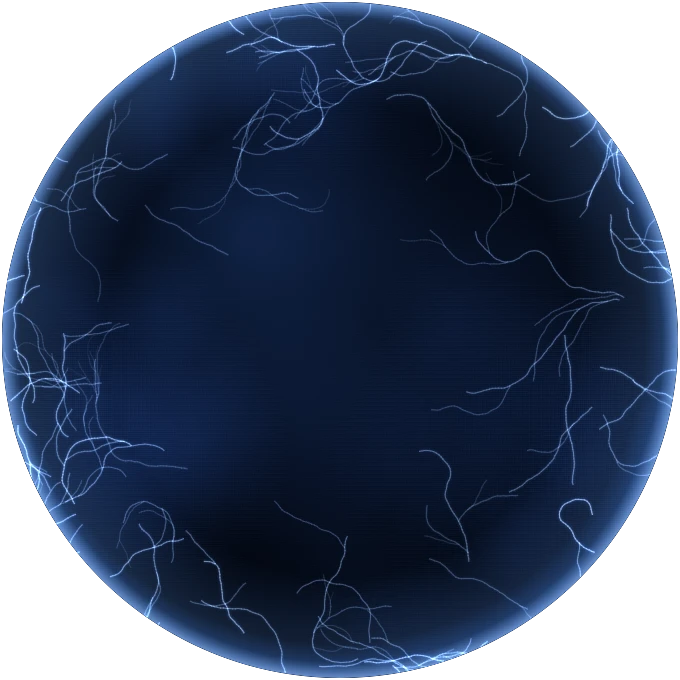
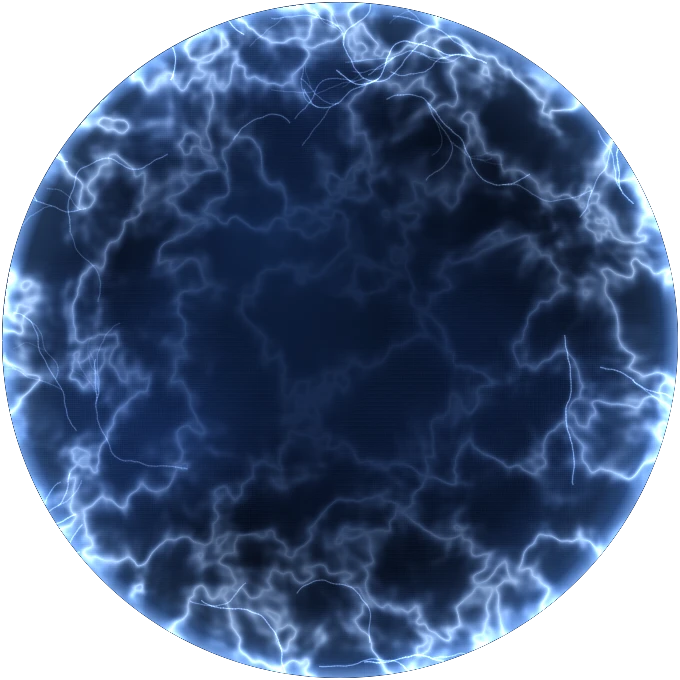
Smoke as ink in water, and an electric core
The smoke is now a density field (warped noise shaped into the arms, torn
into wisps at the edges, bluer near the orb) with fine strands on top,
instead of strands alone. The core is dark with electric veins toward
the rim, from the reference.

diff --git a/scripts/scene-art/generate.js b/scripts/scene-art/generate.js
@@ -234,19 +234,19 @@
       f.stroke();
     }
 
-    // Compose: a blurred copy underneath gives the smoke body and depth, the
-    // sharp copy on top gives it fibre.
+    // Compose: the smoke itself is a density field (soft masses that tear
+    // into wisps, like the reference); the traced fibres are only a faint
+    // layer of strands on top of it.
     const out = document.createElement('canvas');
     out.width = W; out.height = H;
     const o = out.getContext('2d');
-    o.filter = 'blur(26px)';
-    o.globalAlpha = 0.95;
+    o.imageSmoothingQuality = 'high';
+    o.drawImage(smokeField(W, H, cx, cy, noise), 0, 0, W, H);
+    o.filter = 'blur(10px)';
+    o.globalAlpha = 0.35;
     o.drawImage(fibres, 0, 0);
-    o.filter = 'blur(9px)';
-    o.globalAlpha = 0.55;
-    o.drawImage(fibres, 0, 0);
-    o.filter = 'blur(2.5px)';
-    o.globalAlpha = 0.5;
+    o.filter = 'blur(1.5px)';
+    o.globalAlpha = 0.32;
     o.drawImage(fibres, 0, 0);
     o.filter = 'none';
     o.globalAlpha = 1;
@@ -265,6 +265,62 @@
       o.fill();
     }
     return out;
+  }
+
+  /**
+   * Ink in water, pixel by pixel, at half resolution (it is soft anyway).
+   *
+   * Domain-warped noise gives the turbulent masses; its ridges give the thin
+   * torn wisps at their edges. Both are shaped into the arms by an angular
+   * mask that widens and bends with distance, and turn bluer near the orb.
+   */
+  function smokeField(W, H, cx, cy, noise) {
+    const S = 0.5;
+    const w = Math.round(W * S), h = Math.round(H * S);
+    const c = document.createElement('canvas');
+    c.width = w; c.height = h;
+    const ctx = c.getContext('2d');
+    const img = ctx.createImageData(w, h);
+    const px = img.data;
+    const warp = makeNoise(41);
+    const arms = ARMS.map((a) => ({ ...a, r: rad(a.a) }));
+    for (let j = 0; j < h; j++) {
+      for (let i = 0; i < w; i++) {
+        const x = i / S, y = j / S;
+        const dx = x - cx, dy = y - cy;
+        const r = Math.hypot(dx, dy);
+        if (r < 120) continue;
+        // Warp first: everything that follows reads a twisted copy of space.
+        const qx = x + 140 * warp.fbm(x * 0.0022, y * 0.0022, 3);
+        const qy = y + 140 * warp.fbm(x * 0.0022 + 7.3, y * 0.0022 - 3.1, 3);
+        const th = Math.atan2(qy - cy, qx - cx);
+        let mask = 0;
+        for (const a of arms) {
+          const along = Math.min(1, (r - 150) / a.len);
+          let d = th - (a.r + a.bend * along * 1.6);
+          d = Math.atan2(Math.sin(d), Math.cos(d));
+          const width = rad(a.spread * 0.7 + 5 + along * 15);
+          const fade = Math.pow(Math.max(0, 1 - (r - 150) / (a.len * 0.95)), 2);
+          mask += Math.exp(-(d * d) / (width * width)) * fade * a.weight;
+        }
+        if (mask < 0.01) continue;
+        const cloud = 0.5 + 0.5 * noise.fbm(qx * 0.0045, qy * 0.0045, 5);
+        const ridge = Math.pow(1 - Math.abs(noise.fbm(qx * 0.007 + 11, qy * 0.007, 4)), 6);
+        // Near the orb the ink is dense; further out it is mostly wisps.
+        const near = Math.max(0, 1 - (r - 140) / 330);
+        let dens = mask * (Math.pow(cloud, 2.6) * (0.35 + near * 1.6) + ridge * 0.55);
+        dens = Math.min(1, dens * 1.7);
+        if (dens < 0.004) continue;
+        const blue = Math.min(1, near * 0.8 + ridge * 0.35) * (0.5 + 0.5 * cloud);
+        const k = (j * w + i) * 4;
+        px[k] = 12 + blue * 58;
+        px[k + 1] = 22 + blue * 92;
+        px[k + 2] = 46 + blue * 150;
+        px[k + 3] = Math.round(255 * Math.pow(dens, 1.15) * 0.92);
+      }
+    }
+    ctx.putImageData(img, 0, 0);
+    return c;
   }
 
   /**
@@ -328,12 +384,38 @@
         x0.stroke();
       }
     }
-    for (let i = 0; i < 70; i++) {
+    for (let i = 0; i < 22; i++) {
       const a = rand() * Math.PI * 2;
       const d = R * (0.55 + Math.pow(rand(), 0.35) * 0.45);
       const nearRim = d / R;
       bolt(C + Math.cos(a) * d, C + Math.sin(a) * d, rand() * Math.PI * 2,
         20 + rand() * 45, 0.4 + rand() * 0.6, 0.08 + nearRim * nearRim * 0.5, 0);
+    }
+
+    // Plasma: thin bright ridges of warped noise, strongest toward the rim.
+    {
+      const pc = document.createElement('canvas');
+      pc.width = size; pc.height = size;
+      const pctx = pc.getContext('2d');
+      const img = pctx.createImageData(size, size);
+      const d = img.data;
+      const warp = makeNoise(57);
+      for (let y = 0; y < size; y++) {
+        for (let x = 0; x < size; x++) {
+          const rr = Math.hypot(x - C, y - C) / R;
+          if (rr > 1) continue;
+          const wx = x + 40 * warp.fbm(x * 0.008, y * 0.008, 3);
+          const wy = y + 40 * warp.fbm(x * 0.008 + 5, y * 0.008, 3);
+          const ridge = Math.pow(1 - Math.abs(noise.fbm(wx * 0.011, wy * 0.011, 4)), 16);
+          const haze = 0.5 + 0.5 * noise.fbm(wx * 0.004, wy * 0.004, 3);
+          const edge = Math.pow(Math.max(0, (rr - 0.25) / 0.75), 1.6);
+          const v = Math.min(1, ridge * (0.1 + edge * 0.75) + haze * edge * 0.08);
+          const k = (y * size + x) * 4;
+          d[k] = 120 + v * 110; d[k + 1] = 170 + v * 75; d[k + 2] = 255; d[k + 3] = Math.round(v * 255);
+        }
+      }
+      pctx.putImageData(img, 0, 0);
+      x0.drawImage(pc, 0, 0);
     }
 
     // Light pooled under the rim.
